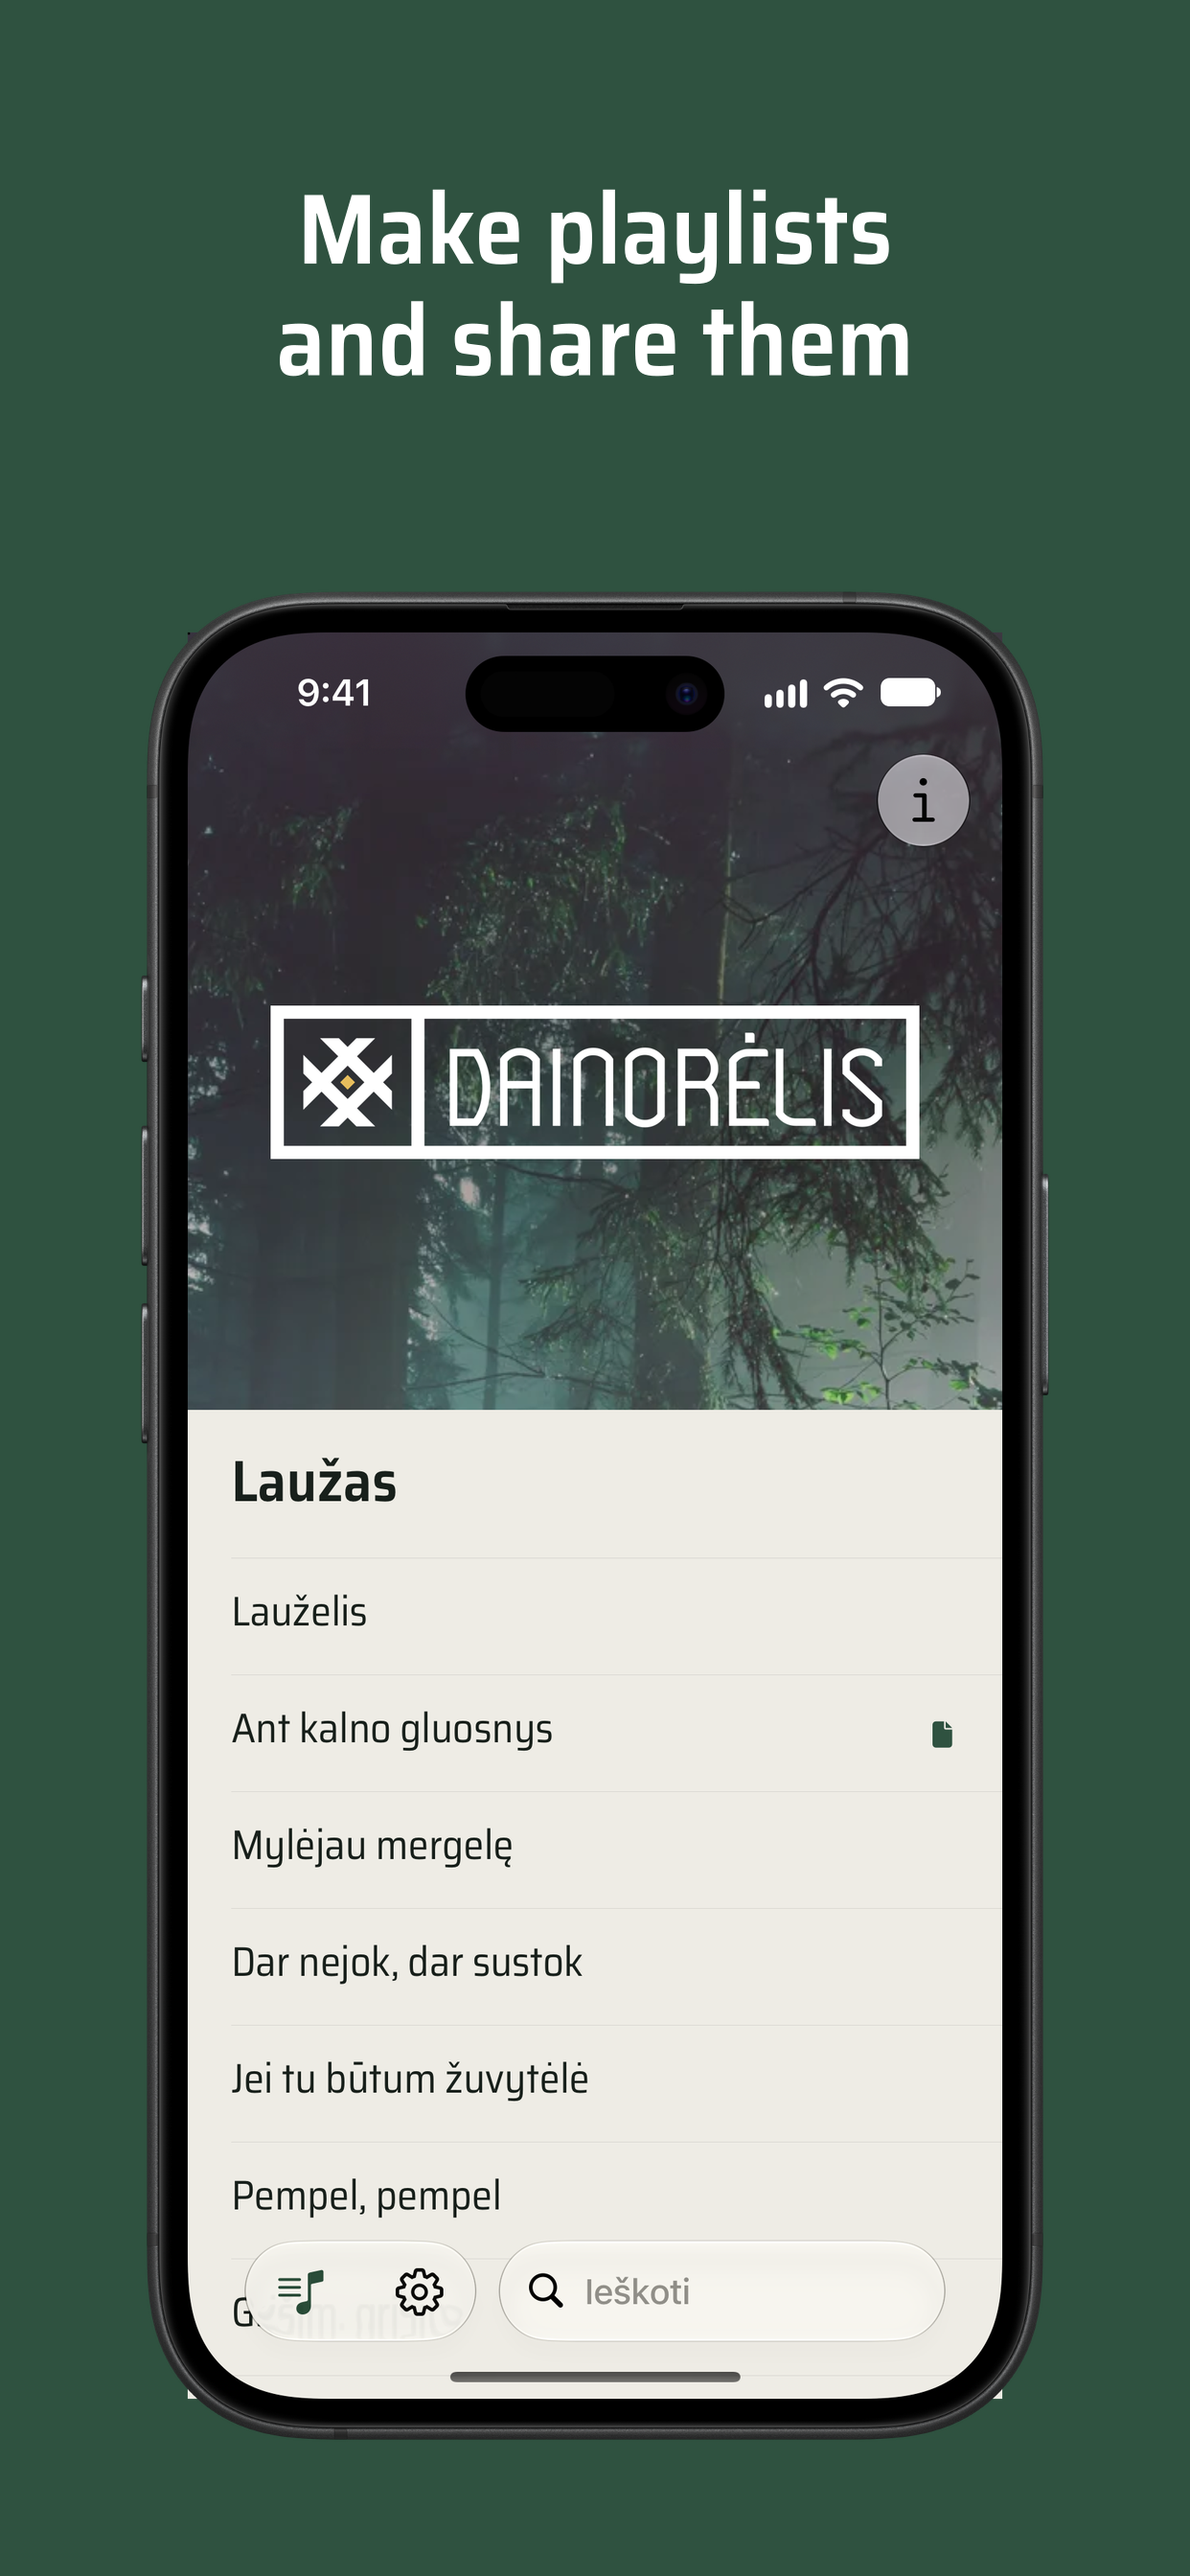
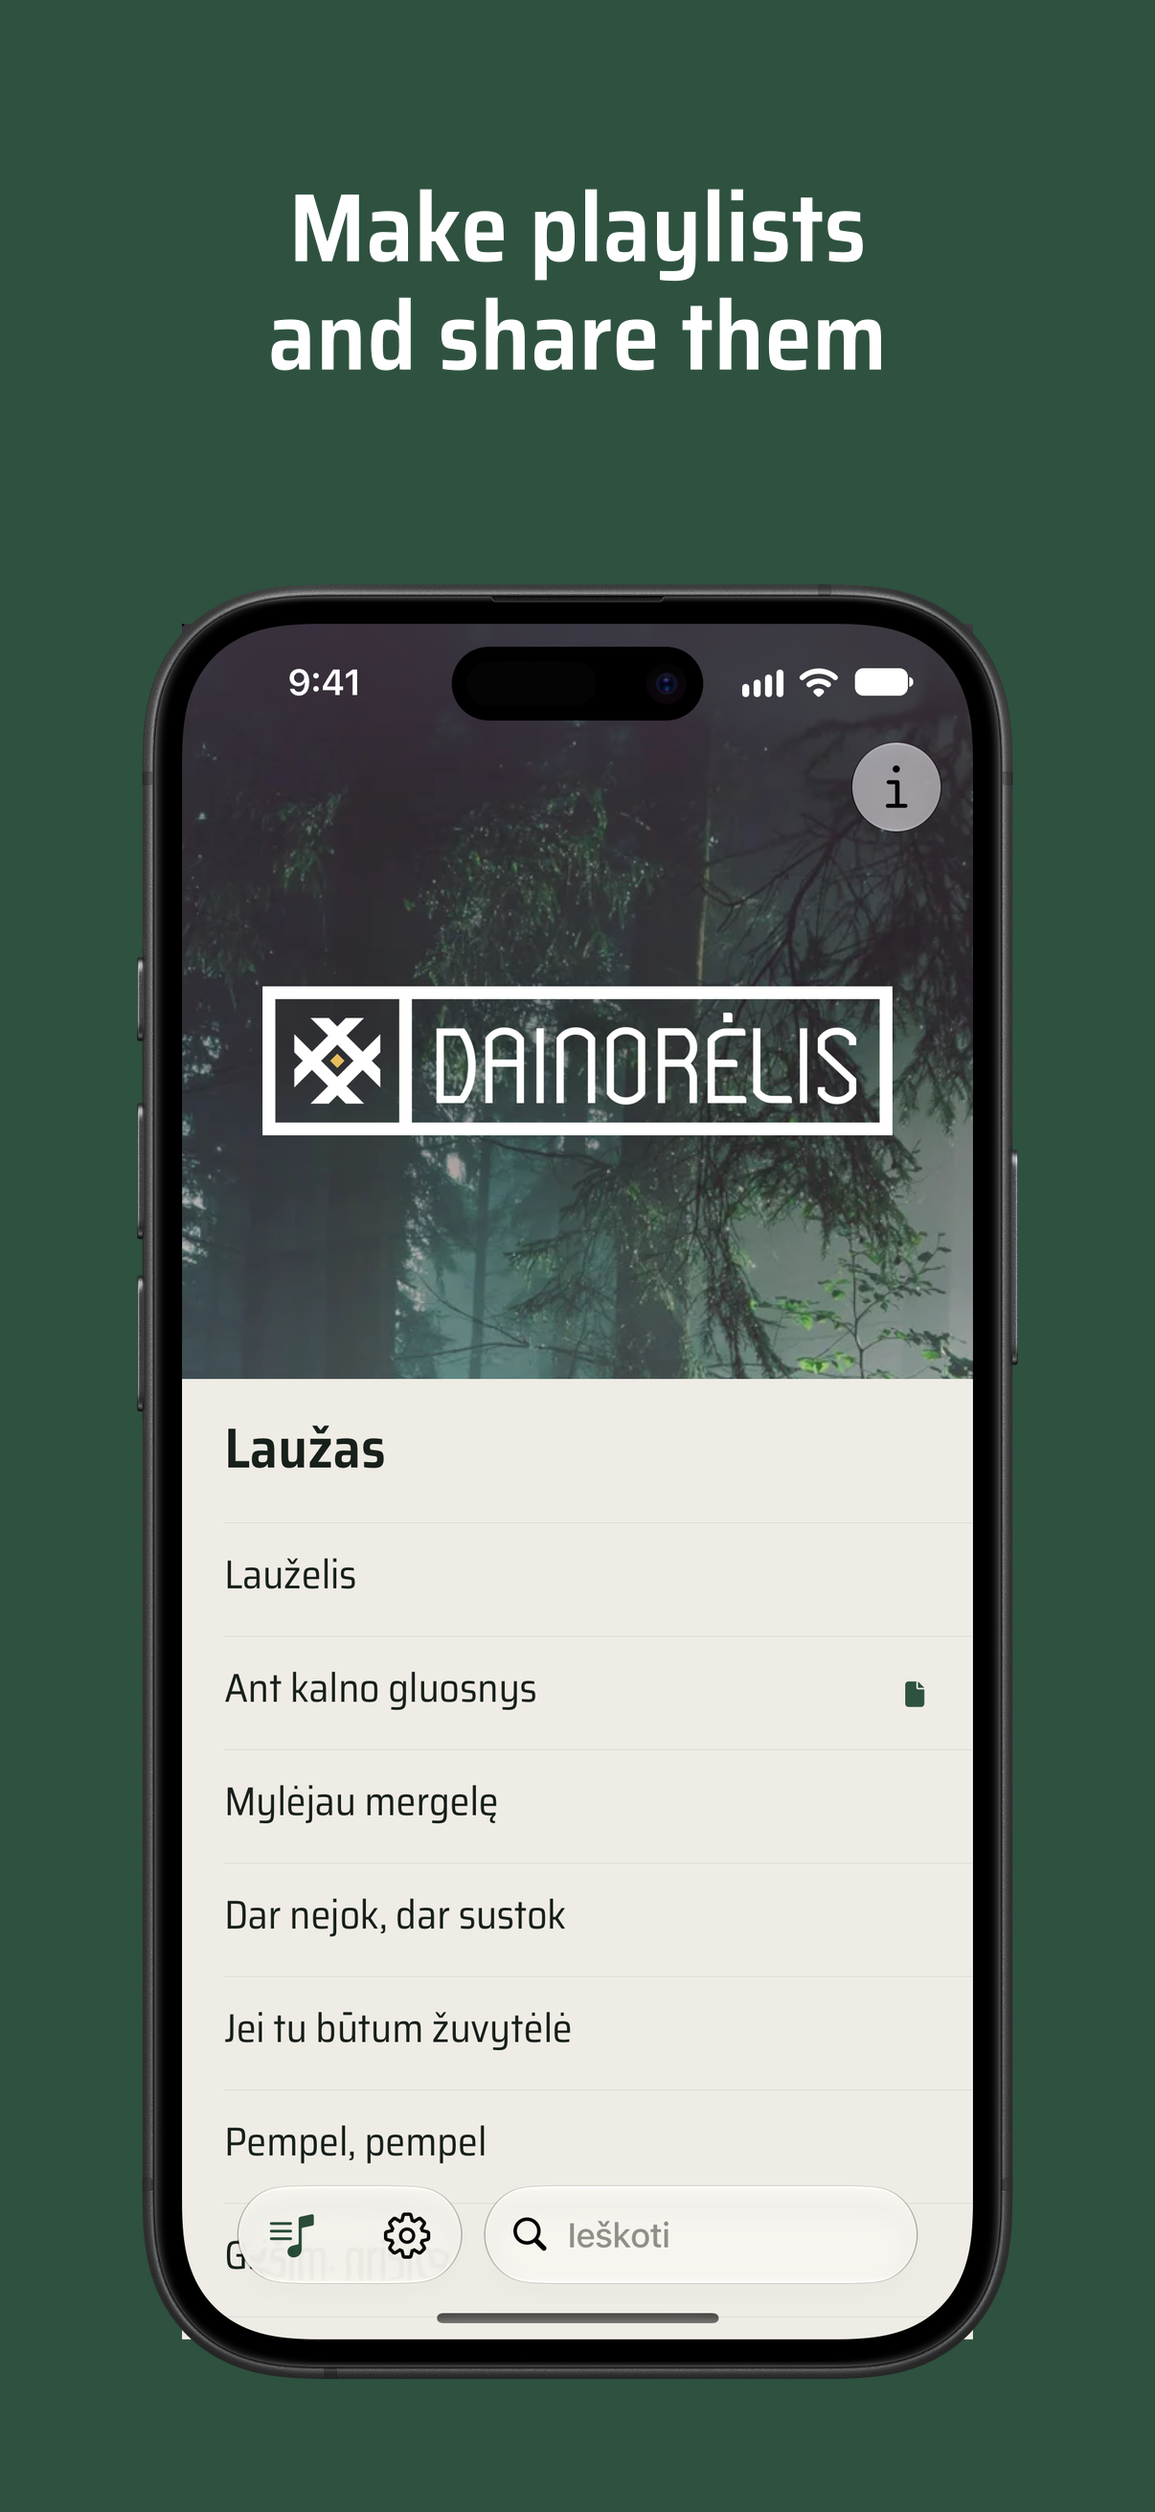
chore(store): iPhone Duo screenshots, iPhone at 6.3", no alpha
App Store Connect's iPhone slot is now the medium display (1206×2622), and it has an iPhone
Duo slot (closed display, 1398×2034), framed in Apple's unaltered Star White bezel. Composed
images drop their alpha channel, which the stores reject.

Claude-Session: https://claude.ai/code/session_017s8egWMJi8eBEq9RKHtkQk

diff --git a/scripts/store-screenshots/compose.ts b/scripts/store-screenshots/compose.ts
@@ -15,7 +15,8 @@ import sharp from 'sharp';
 
 type Frame =
   // a device image whose screen is a transparent hole at `screen` ([x, y, width, height] in the image's pixels)
-  | { image: string; screen: [number, number, number, number] }
+  // (`clip`: also cut the capture to the hole's shape, for a frame whose screen corners reach past the device's outline)
+  | { image: string; screen: [number, number, number, number]; clip?: boolean }
   // a plain bezel drawn around a screen of `screen` pixels, for devices without an image (Android)
   | { screen: [number, number]; bezel: number; radius: number; color: string; rim: string; camera?: number };
 
@@ -77,13 +78,53 @@ function captionSvg(text: string, size: number, maxWidth: number) {
   return { svg: Buffer.from(svg), height };
 }
 
+/**
+ * the frame's screen hole as an alpha mask the size of `screen`: the see-through pixels connected to the screen's
+ * centre, so the transparent background outside the device's outline (where the screen's corners are rounder than
+ * the rectangle) hides the capture too
+ */
+async function holeMask(frame: { image: string; screen: [number, number, number, number] }) {
+  const [x, y, w, h] = frame.screen;
+  const { data } = await sharp(join(root, frame.image))
+    .ensureAlpha()
+    .extract({ left: x, top: y, width: w, height: h })
+    .raw()
+    .toBuffer({ resolveWithObject: true });
+  const mask = Buffer.alloc(w * h * 4);
+  const seen = new Uint8Array(w * h);
+  const stack = [(h >> 1) * w + (w >> 1)];
+  seen[stack[0]] = 1;
+  while (stack.length > 0) {
+    const p = stack.pop()!;
+    const alpha = data[p * 4 + 3];
+    mask[p * 4 + 3] = 255 - alpha;
+    if (alpha === 255) continue;
+    const px = p % w;
+    for (const q of [px > 0 ? p - 1 : -1, px < w - 1 ? p + 1 : -1, p - w, p + w]) {
+      if (q >= 0 && q < w * h && !seen[q]) {
+        seen[q] = 1;
+        stack.push(q);
+      }
+    }
+  }
+  return sharp(mask, { raw: { width: w, height: h, channels: 4 } })
+    .png()
+    .toBuffer();
+}
+
 /** the frame with the capture in its screen, as a PNG at the frame's native size */
 async function framed(frame: Frame, capture: string) {
   if ('image' in frame) {
     const [x, y, w, h] = frame.screen;
     const image = sharp(join(root, frame.image));
     const { width, height } = await image.metadata();
-    const screen = await sharp(capture).resize(w, h, { fit: 'fill' }).toBuffer();
+    let screen = await sharp(capture).resize(w, h, { fit: 'fill' }).toBuffer();
+    if (frame.clip) {
+      screen = await sharp(screen)
+        .ensureAlpha()
+        .composite([{ input: await holeMask(frame), blend: 'dest-in' }])
+        .toBuffer();
+    }
     return sharp({ create: { width, height, channels: 4, background: '#0000' } })
       .composite([{ input: screen, left: x, top: y }, { input: join(root, frame.image) }])
       .png()
@@ -148,6 +189,8 @@ async function compose(name: string, target: Target) {
           top: deviceTop,
         },
       ])
+      // the stores reject screenshots with an alpha channel, and compositing adds one
+      .removeAlpha()
       .png()
       .toFile(output);
     console.log(`wrote ${output}`);

diff --git a/scripts/store-screenshots/README.md b/scripts/store-screenshots/README.md
@@ -1,6 +1,6 @@
 # Store screenshots
 
-`assets/images/screenshots/{iOS,iPadOS,Android} {1-5}.png` are composed from raw captures by
+`assets/images/screenshots/{iOS,iPadOS,iPhone Duo,Android} {1-5}.png` are composed from raw captures by
 `compose.ts`: a caption in Saira Semi Condensed on eglė, over the capture in a device frame.
 `config.json` holds the captions, the frames (an image with a transparent screen, or a plain drawn
 bezel), and each store target's canvas size, frame and layout.
@@ -9,15 +9,24 @@ bezel), and each store target's canvas size, frame and layout.
 2. `pnpm store-screenshots` (or `pnpm store-screenshots iOS` for one target).
 
 To change the words or the screens, edit `shots` in `config.json` and the list below. A new frame is
-an entry in `frames`; the capture's size must match its `screen`.
+an entry in `frames`. The capture is stretched to fill its `screen`, so take it at that size, or at least
+in that aspect.
+
+`_iPhone Duo.png` is Apple's iPhone Duo product bezel, "iPhone Duo - Star White - Outer Closed Portrait.png"
+from `Bezel-iPhone-Duo.dmg` (developer.apple.com/design/resources, Product Bezels), unaltered (Apple's
+guidelines don't allow recolouring its product images; Night Sky's blue clashed with eglė), with its screen at
+[88, 80, 1398, 2034]. The screen's right-hand corners are rounder than the device's outline there, so the frame
+sets `clip`, which cuts the capture to the screen hole and keeps its square corners from showing outside the
+bezel. The kit also has Night Sky, landscape and the open (inner, 2007×2853 screen) display bezels.
 
 ## Devices
 
-| Target  | Device (capture size)                     | Store size            |
-| ------- | ----------------------------------------- | --------------------- |
-| iOS     | iPhone 16 simulator (1179×2556)           | 1242×2688 (6.5")      |
-| iPadOS  | iPad mini (A17 Pro) simulator (1488×2266) | 2048×2732 (12.9"/13") |
-| Android | Pixel 9a emulator (1080×2424)             | 1080×1920             |
+| Target     | Device (capture size)                                             | Store size             |
+| ---------- | ----------------------------------------------------------------- | ---------------------- |
+| iOS        | iPhone 16 simulator (1179×2556)                                   | 1206×2622 (6.3")       |
+| iPadOS     | iPad mini (A17 Pro) simulator (1488×2266)                         | 2048×2732 (12.9"/13")  |
+| Android    | Pixel 9a emulator (1080×2424)                                     | 1080×1920              |
+| iPhone Duo | iPhone Duo simulator, iOS 27.1, closed (outer display, 1398×2034) | 1398×2034 (Duo, outer) |
 
 To recreate the devices (iOS 27.0 runtime, Android 36 Play Store image):
 
@@ -46,6 +55,13 @@ $S prep android emulator-5554         # demo mode (once per boot)
 $S open ios <udid> 'dainorelis://dainos/rec9WsC1vTljkFQLf'
 $S shot ios <udid> iOS 3              # -> captures/iOS/3.png
 ```
+
+The Duo slot also takes the open (inner) display at 2007×2853, but the simulator boots closed and
+neither `simctl` nor scripting can unfold it (Device Hub can, by hand). Take Duo captures with
+`xcrun simctl io <udid> screenshot --display=1` (the outer display). Taps (AXe) don't reach the
+closed Duo either, so shots 2 and 5 copy the app's MMKV files (`Documents/mmkv/mmkv.default` and
+`.crc`) over from the iPhone after its shots, with the app terminated: shot 2 needs Laužas added
+and selected in Lithuanian, shot 5 English.
 
 ## Shots
 
